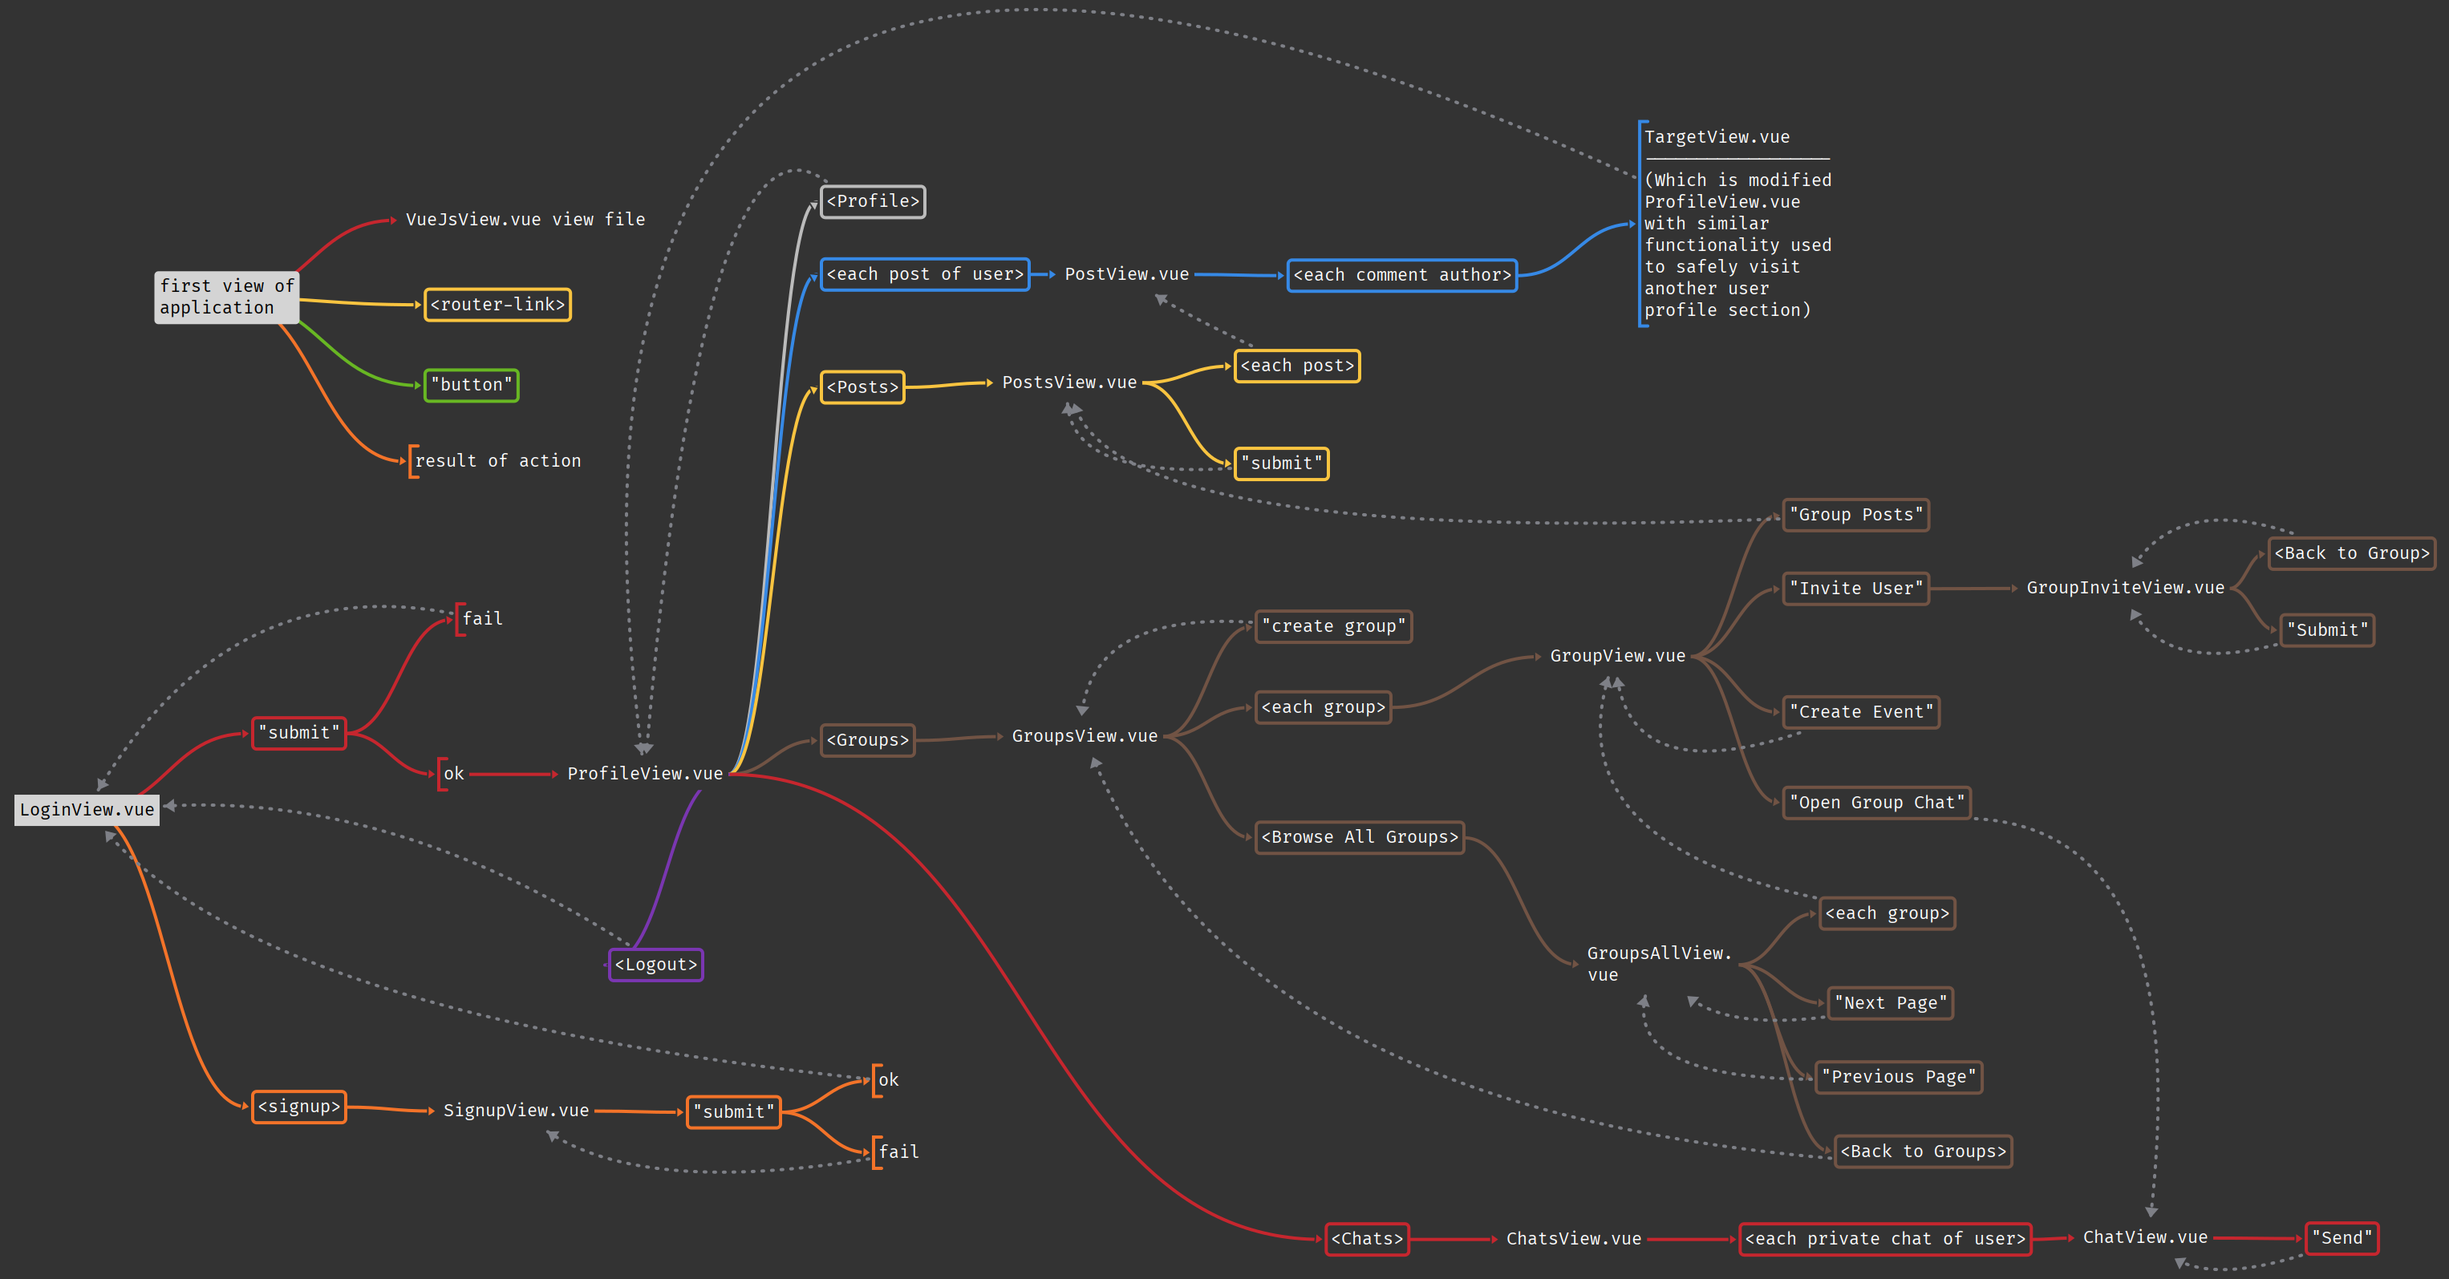
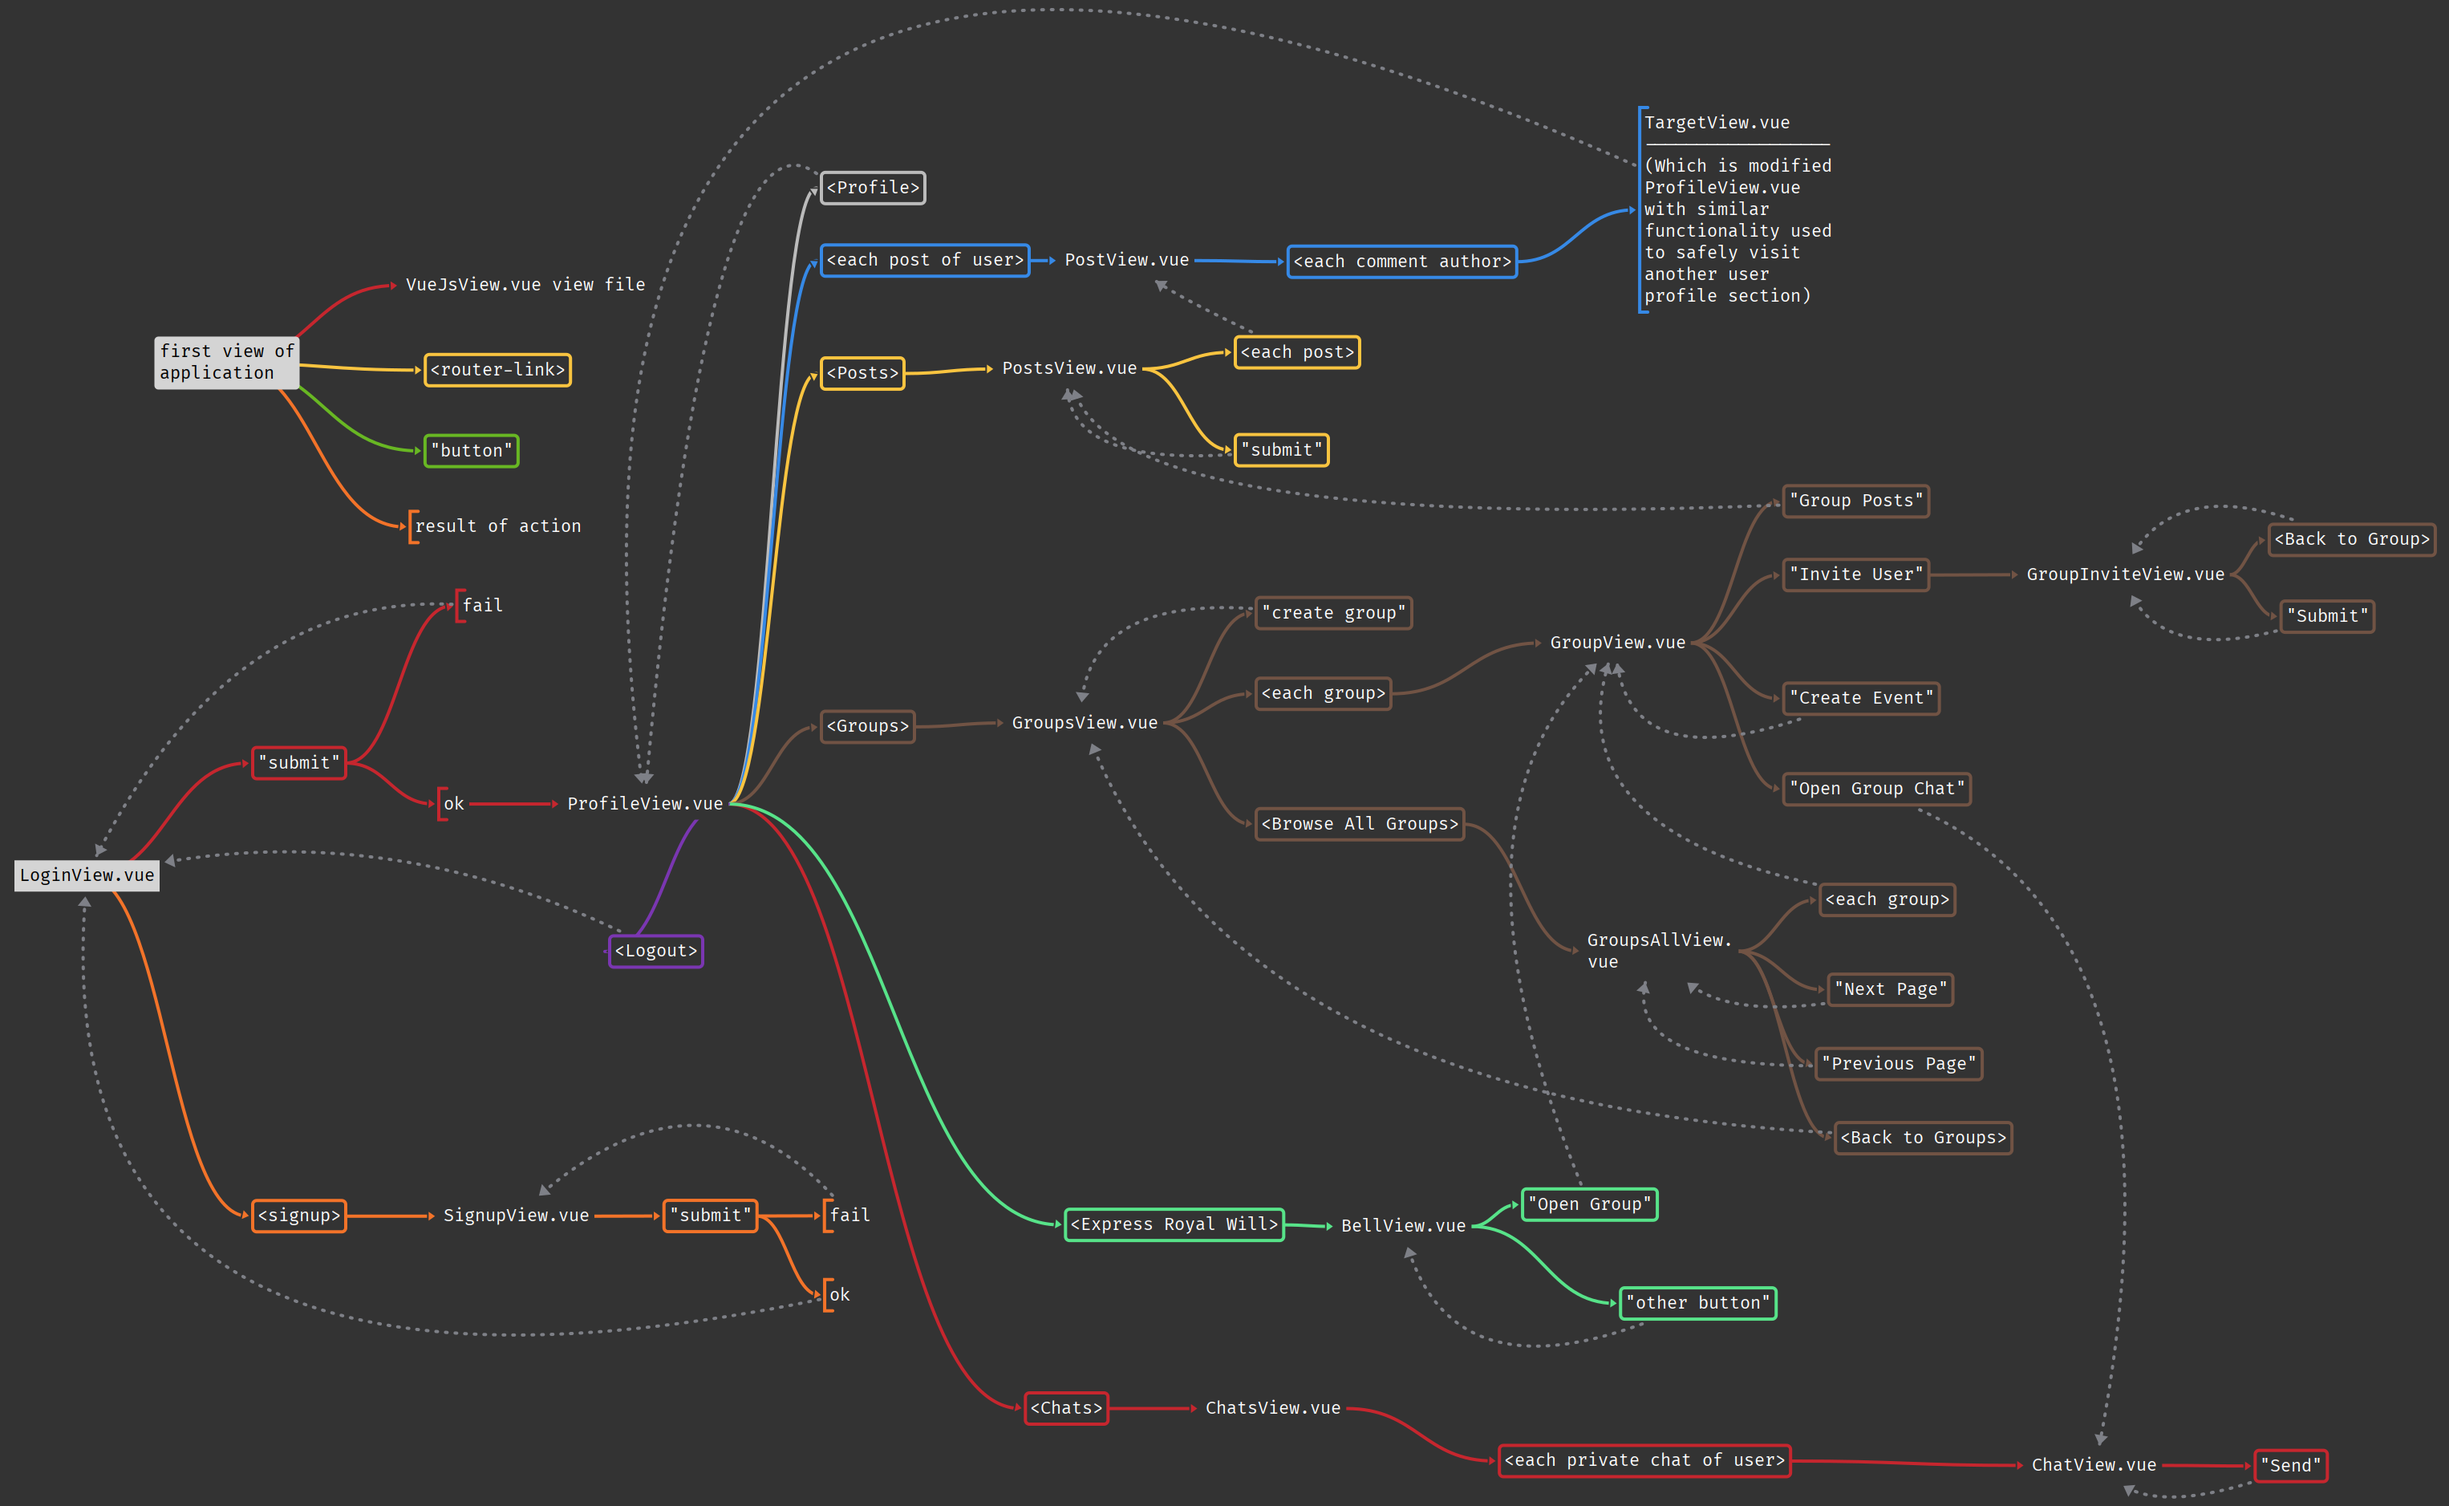
Complete frontend template. View Interaction Diagram. All planned views templates are implemented

diff --git a/frontend/src/views/BellView.vue b/frontend/src/views/BellView.vue
@@ -63,6 +63,8 @@
 import { ref, computed, onMounted } from 'vue';
 import { useBellStore } from '@/store/bell';
 import { Bell } from '@/store/bell';
+import router from '@/router';
+import { useGroupStore } from '@/store/group';
 
 const bellStore = useBellStore();
 const bells = ref<Bell[]>([]);
@@ -88,8 +90,11 @@ function updateTotalPages() {
   console.log("pages ", totalPages.value, " paginatedBells.value.length ", paginatedBells.value.length, "bells.value.length ", bells.value.length);
 }
 
+const groupStore = useGroupStore();
 function openGroup(groupId: number) {
   // code to open group
+  groupStore.setGroupId(groupId);
+  router.push({ name: 'group' });
 }
 
 function removeBell(index: number) {
